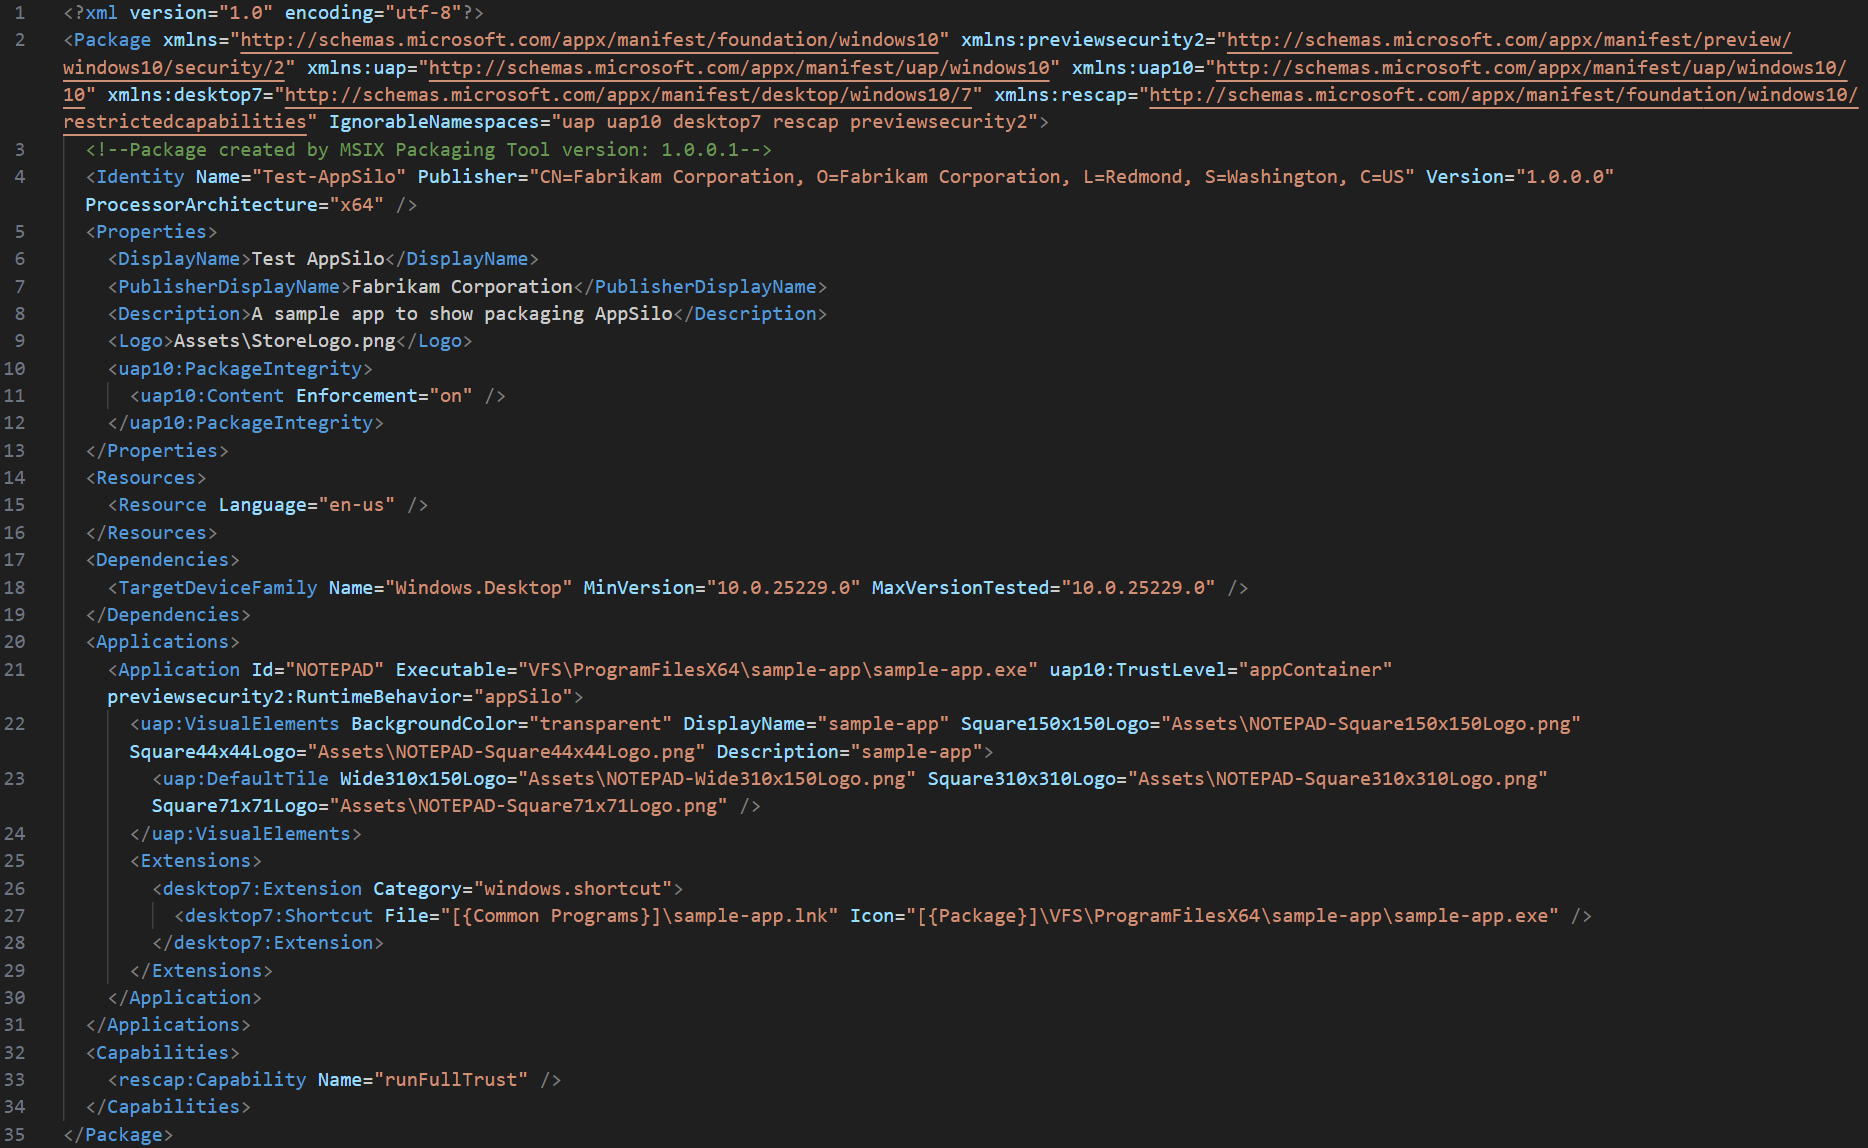
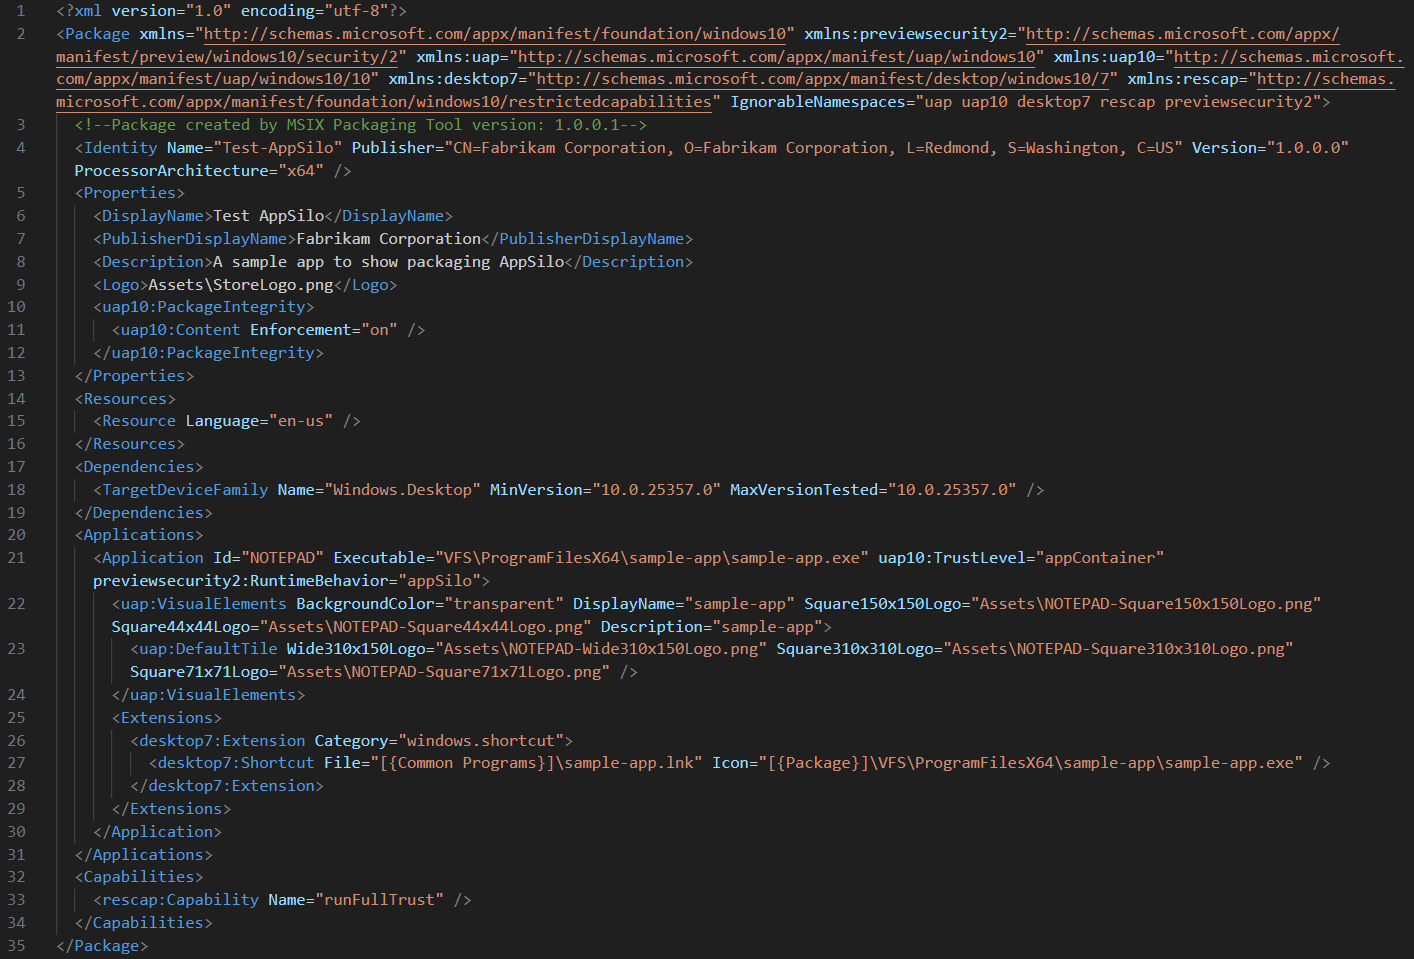
Updating Min Version and adding link to Release Notes (#45)
* Updating packaging instructions to match the version stated in Relnotes

* adding link to release notes

* moving comma to be clearer

* Removing extra indent for runfulltrust note

Changed region(s): [[0.0, 0.0, 0.9958, 0.9979], [0.0, 0.6653, 0.0311, 0.6955]]

diff --git a/docs/packaging/msix-packaging-tool.md b/docs/packaging/msix-packaging-tool.md
@@ -69,12 +69,14 @@ on the size of the package.
     * Add `previewsecurity2` to `IgnorableNamespaces` at the end of the `<Package>` element
 
     * In `<Dependencies>` change `TargetDeviceFamily` to
-    `<TargetDeviceFamily Name="Windows.Desktop" MinVersion="10.0.25229.0" MaxVersionTested="10.0.25229.0" />`
+    `<TargetDeviceFamily Name="Windows.Desktop" MinVersion="10.0.25357.0" MaxVersionTested="10.0.25357.0" />`
+
+        * **Note**: Not all features are available in the minimun build, check out the [release notes](../../relnotes/windows-release-notes.md) for more detailed information.
 
     * In `<Application>` replace any existing entrypoint/trustlevel/runtimebehavior with
     `uap10:TrustLevel="appContainer" previewsecurity2:RuntimeBehavior="appSilo"`
 
-    * **Note**: By default MPT, will automatically add `<rescap:Capability name="runFullTrust">` to
+    * **Note**: By default, MPT will automatically add `<rescap:Capability name="runFullTrust">` to
     `<Capabilities>` due to the app being a packaged Win32. This should be removed unless
     the app has other manifested extensions which can affect the user global state, such as
     `comServer` or `FirewallRules`, since those require the `runFullTrust` capability.
